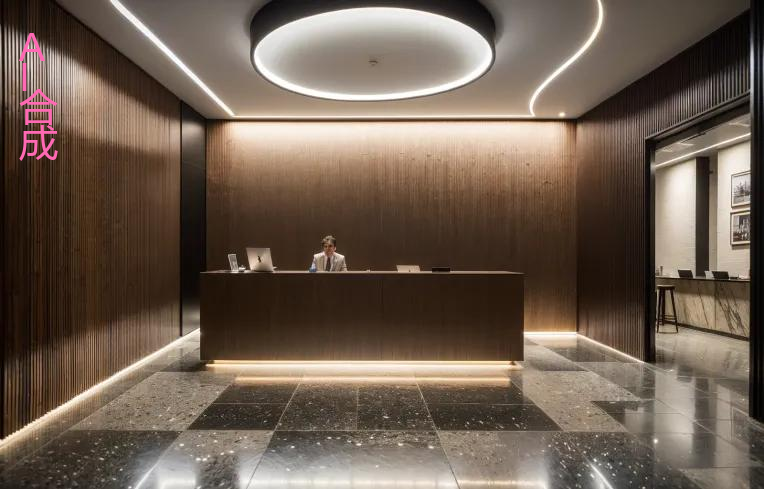
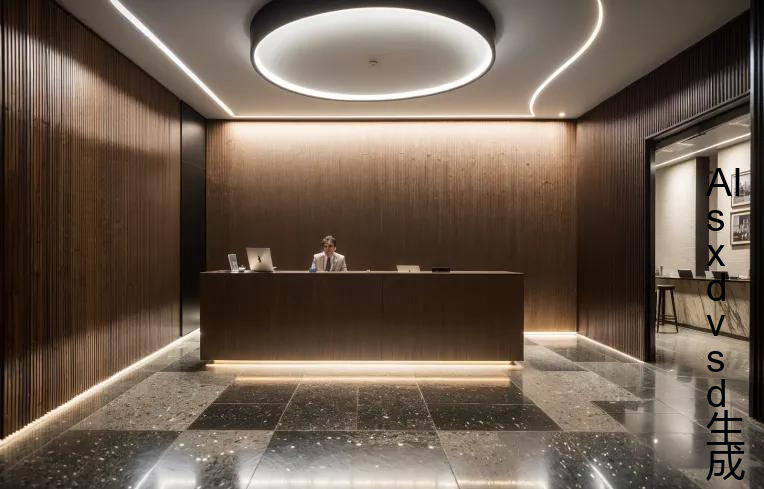
fix:LableContent to str and AI as a word

diff --git a/image_explicit/image_explicit.py b/image_explicit/image_explicit.py
@@ -55,7 +55,7 @@ def find_font(font_name_key):
 def get_default_explicit_label():
     """获取默认的水印参数"""
     return {
-        'ContentMode': 3,          # 默认内容为 "AI生成"
+        'LableContent': 3,          # 默认内容模式为 3 ("AI生成")
         'PositionMode': 1,
         'TextDirection': 0,
         'TextScale': 0.08,
@@ -104,56 +104,75 @@ def get_mixed_text_dimensions(draw, text, english_font, chinese_font):
     """计算混合字体文本的总尺寸，能处理横向与纵向。"""
     lines = text.split('\n')
     max_line_width = 0
-    
-    # 使用 textbbox 计算精确的总高度
-    try:
-        # 混合字体时，无法用单一字体完美计算bbox，但用较大字体(中文)可以得到很好的近似值
-        _, top, _, bottom = draw.textbbox((0, 0), text, font=chinese_font)
-        total_height = bottom - top
-    except ValueError:
-        # 罕见的备用方案
-        total_height = 0
-        for i, line in enumerate(lines):
-             _, line_top, _, line_bottom = draw.textbbox((0, 0), line, font=chinese_font)
-             total_height += (line_bottom - line_top)
+    total_height = 0
 
-    # 逐行计算最大宽度
-    for line in lines:
-        segments = _segment_text(line)
-        current_line_width = 0
+    if len(lines) > 1:  # 纵向文本模式
+        vertical_line_spacing_factor = 0.9
+        # 使用较大的字体大小作为基准行高
+        base_line_height = max(english_font.size, chinese_font.size) * vertical_line_spacing_factor
+
+        for line in lines:
+            segments = _segment_text(line)
+            current_line_width = 0
+            for segment, is_chinese_seg in segments:
+                font = chinese_font if is_chinese_seg else english_font
+                current_line_width += draw.textlength(segment, font=font)
+            
+            if current_line_width > max_line_width:
+                max_line_width = current_line_width
+            
+            total_height += base_line_height
+    else:  # 单行横向文本模式
+        segments = _segment_text(text)
+        line_max_ascent = 0
+        line_max_descent = 0
         for segment, is_chinese_seg in segments:
             font = chinese_font if is_chinese_seg else english_font
-            current_line_width += draw.textlength(segment, font=font)
-        if current_line_width > max_line_width:
-            max_line_width = current_line_width
-            
+            max_line_width += draw.textlength(segment, font=font)
+            ascent, descent = font.getmetrics()
+            if ascent > line_max_ascent:
+                line_max_ascent = ascent
+            if descent > line_max_descent:
+                line_max_descent = descent
+        total_height = line_max_ascent + line_max_descent
+
     return max_line_width, total_height
 
 def draw_mixed_text(draw, position, text, english_font, chinese_font, fill):
     """在指定位置绘制混合字体的文本，处理基线对齐和纵向文本。"""
     x, y = position
 
-    # 如果是纵向文本，则逐行绘制
-    if '\n' in text:
-        lines = text.split('\n')
-        current_y = y
-        for line in lines:
-            # 递归调用自身来绘制单行文本
-            draw_mixed_text(draw, (x, current_y), line, english_font, chinese_font, fill)
-            # 计算该行的高度以便移动到下一行
-            _, line_height = get_mixed_text_dimensions(draw, line, english_font, chinese_font)
-            current_y += line_height
-        return
-
-    # --- 以下为原有的横向文本绘制逻辑 ---
-    current_x = x
-    segments = _segment_text(text)
-
-    # 计算统一的基线
+    # 统一计算绘制时所需的基线信息
     eng_ascent, _ = english_font.getmetrics()
     cn_ascent, _ = chinese_font.getmetrics()
     max_ascent = max(eng_ascent, cn_ascent)
 
+    if '\n' in text: # 纵向文本模式
+        lines = text.split('\n')
+        current_y = y
+        
+        vertical_line_spacing_factor = 0.9
+        line_increment = max(english_font.size, chinese_font.size) * vertical_line_spacing_factor
+
+        for line in lines:
+            # --- 开始绘制单行（此处为单个纵向字符） ---
+            current_x_inner = x
+            segments = _segment_text(line)
+            for segment, is_segment_chinese in segments:
+                font = chinese_font if is_segment_chinese else english_font
+                segment_ascent, _ = font.getmetrics()
+                # 基于统一的基线调整每个片段的垂直位置
+                draw_y = current_y + (max_ascent - segment_ascent)
+                draw.text((current_x_inner, draw_y), segment, font=font, fill=fill)
+                current_x_inner += draw.textlength(segment, font=font)
+            # --- 单行绘制结束 ---
+            
+            current_y += line_increment # 使用计算好的固定行高进行递增
+        return
+
+    # --- 单行横向文本模式 ---
+    current_x = x
+    segments = _segment_text(text)
     for segment, is_segment_chinese in segments:
         font = chinese_font if is_segment_chinese else english_font
         # 基于统一的基线调整每个片段的垂直位置
@@ -183,7 +202,7 @@ def EmbedImageExplicitLabel(OriginalImagePath: str, ResultFilePath: str, Explici
         label_config = defaults.copy()
         label_config.update(ExplicitLabel)
 
-        # 新逻辑：根据 ContentMode 或 LableContent 确定水印文本
+        # 新逻辑：LableContent 支持整数模式和直接的字符串输入
         content_options = {
             1: "人工智能生成",
             2: "人工智能合成",
@@ -191,12 +210,19 @@ def EmbedImageExplicitLabel(OriginalImagePath: str, ResultFilePath: str, Explici
             4: "AI合成",
         }
         
-        content_mode = label_config.get('ContentMode')
-        if content_mode in content_options:
-            content = content_options[content_mode]
+        content_input = label_config.get('LableContent')
+        
+        content = ''
+        if isinstance(content_input, int) and content_input in content_options:
+            # 如果是有效的整数模式，获取对应的文本
+            content = content_options[content_input]
+        elif isinstance(content_input, str):
+            # 如果是字符串，直接使用
+            content = content_input
         else:
-            # 向后兼容旧的 LableContent 参数，如果ContentMode不存在，则尝试使用LableContent
-            content = label_config.get('LableContent', 'AI生成')
+            # 对于其他无效输入或没有输入，回退到默认值
+            # 兼容旧的ContentMode
+            content = label_config.get('ContentMode', content_options[get_default_explicit_label()['LableContent']])
 
         position_mode = label_config['PositionMode']
         direction = label_config['TextDirection']
@@ -242,7 +268,17 @@ def EmbedImageExplicitLabel(OriginalImagePath: str, ResultFilePath: str, Explici
         img_width, img_height = img.size
         font_size = int(min(img_width, img_height) * scale)
         if direction == 1:  # 纵向
-            content = '\n'.join(list(content))
+            # 特殊处理纵向文本，让 "AI" 保持在同一行，而不是垂直分开
+            new_content_parts = []
+            i = 0
+            while i < len(content):
+                if content[i:i+2] == 'AI':
+                    new_content_parts.append('AI')
+                    i += 2
+                else:
+                    new_content_parts.append(content[i])
+                    i += 1
+            content = '\n'.join(new_content_parts)
 
         temp_draw = ImageDraw.Draw(Image.new("RGBA", (0,0)))
 
@@ -339,17 +375,20 @@ def main():
     # --- 水印详细参数 ---
     label_help = """
 Watermark settings in JSON format. Example:
-'{"ContentMode": 1, "PositionMode": 3, "Opacity": 0.8}'
+'{"LableContent": 1, "PositionMode": 3, "Opacity": 0.8}'
+'{"LableContent": "自定义文本", "PositionMode": 3, "Opacity": 0.8}'
 
 Settable fields (with defaults):
-  'ContentMode': 3                 // int, Watermark Content. 1:"人工智能生成", 2:"人工智能合成", 3:"AI生成", 4:"AI合成".
-  'LableContent': 'AI生成'         // str, DEPRECATED. Use ContentMode instead.
+  'LableContent': 3                // int|str, (Recommended) Watermark content.
+                                     // Use int mode for presets to avoid encoding issues: 1:"...", 2:"...", 3:"...", 4:"...".
+                                     // Or provide a direct string.
   'PositionMode': 1                // int, Position: 1(BR), 2(BL), 3(TR), 4(TL), -1(BC), -2(TC), -3(LC), -4(RC)
   'TextDirection': 0               // int, Direction: 0(Horizontal), 1(Vertical)
   'TextScale': 0.08                // float, Text height ratio to image's shorter side (>= 0.05)
   'TextColor': [0, 0, 0]           // list, RGB color (e.g., [255, 0, 0] for red)
   'FontName': 1                    // int, Font: 1(MS YaHei), 2(Simsun), 3(Heiti), 4(Arial), 5(Times New Roman)
   'Opacity': 0.5                   // float, Opacity from 0.0 (transparent) to 1.0 (opaque)
+  'ContentMode': 'AI生成'          // str, (DEPRECATED) Use LableContent instead.
 """
     parser.add_argument('--ExplicitLabel', type=str, default='{}', help=label_help)
 

diff --git a/image_explicit/README.md b/image_explicit/README.md
@@ -69,26 +69,24 @@ python watermark.py <输入图片> <输出图片> --ExplicitLabel '<JSON配置>'
 
 | 参数名 | 类型 | 描述 | 示例 |
 | :--- | :--- | :--- | :--- |
-| `ContentMode` | int | **(推荐)** 水印内容模式。 **1**: "人工智能生成", **2**: "人工智能合成", **3**: "AI生成" (默认), **4**: "AI合成". | `'{"ContentMode": 1}'` |
+| `LableContent` | str | **(推荐)** 水印文本内容。可以是预设的四个值之一（"人工智能生成", "人工智能合成", "AI生成", "AI合成"），也可以是任何自定义字符串。 | `'{"LableContent": "AI合成"}'` |
 | `PositionMode` | int | 水印位置。 **1**:右下, **2**:左下, **3**:右上, **4**:左上, **-1**:下中, **-2**:上中, **-3**:左中, **-4**:右中. | `'{"PositionMode": 4}'` |
 | `TextDirection` | int | 文字方向。**0**: 横向 (默认), **1**: 纵向. | `'{"TextDirection": 1}'` |
 | `TextColor` | list | 文字的RGB颜色。 | `'{"TextColor": [255, 0, 0]}'` (红色) |
 | `TextScale` | float | 文字大小，为图片短边高度的比例 (>= 0.05)。 | `'{"TextScale": 0.1}'` |
 | `Opacity` | float | 透明度，范围从 0.0 (完全透明) 到 1.0 (完全不透明)。 | `'{"Opacity": 0.75}'` |
-| `FontName` | int | 字体名称。 **1**:微软雅黑 (默认), **2**:宋体, **3**:黑体, **4**:Arial, **5**:Times New Roman. <br>注：当选择字体4或5时，脚本会检查内容。若内容包含"AI"，则进行混合渲染（中文用字体1，英文用所选字体）；若不含"AI"，则自动回退使用字体1。 | `'{"FontName": 4, "ContentMode": 3}'` |
-| `LableContent` | str | **(已弃用)** 直接提供文本内容。会被`ContentMode`覆盖。 | `'{"LableContent": "自定义内容"}'` |
-注：ContentMode与LableContent关系：
-当您运行脚本时，它会首先检查您是否在 --ExplicitLabel 中提供了 ContentMode。
-如果提供了 ContentMode，脚本就会根据您给的数字（1, 2, 3, 或 4）选择对应的预设文字，并完全忽略 LableContent。
-如果您没有提供 ContentMode，脚本才会接着去寻找 LableContent，并使用您在里面提供的自定义文本。
+| `FontName` | int | 字体名称。 **1**:微软雅黑 (默认), **2**:宋体, **3**:黑体, **4**:Arial, **5**:Times New Roman. <br>注：当选择字体4或5时，脚本会检查内容。若内容包含"AI"，则进行混合渲染（中文用字体1，英文用所选字体）；若不含"AI"，则自动回退使用字体1。 | `'{"FontName": 4, "LableContent": "AI生成"}'` |
+| `ContentMode` | str | **(已弃用)** 直接提供文本内容。已被`LableContent`取代。 | `'{"ContentMode": "自定义内容"}'` |
+注：LableContent与ContentMode关系：
+当您运行脚本时，它会优先使用 --ExplicitLabel 中的 LableContent 作为水印内容。ContentMode 参数已弃用，建议不再使用。
 
 **组合示例:**
 
-同时设置内容为 "人工智能合成" (模式2) 和颜色为黑色:
+同时设置内容为 "人工智能合成" 和颜色为黑色:
 ```bash
-python image_explicit.py test.jpg output.png --ExplicitLabel '{"ContentMode": 2, "TextColor": [0, 0, 0]}'
+python image_explicit.py test.jpg output.png --ExplicitLabel '{"LableContent": "人工智能合成", "TextColor": [0, 0, 0]}'
 ```
-python image_explicit.py test.jpg output.png --ExplicitLabel '{"ContentMode": 4, "PositionMode": 4, "TextColor": [255, 105, 180], "Opacity": 1.0, "FontName": 4, "TextDirection": 1}'
+python image_explicit.py test.jpg output.png --ExplicitLabel '{"LableContent": "AI合成", "PositionMode": 4, "TextColor": [255, 105, 180], "Opacity": 1.0, "FontName": 4, "TextDirection": 1}'
 ---
 
 ## 3. 返回结果说明
@@ -105,4 +103,4 @@ python image_explicit.py test.jpg output.png --ExplicitLabel '{"ContentMode": 4,
 *   **1**: 嵌入成功。
 *   **0**: 未嵌入 (此版本中未使用)。
 *   **-1**: 嵌入失败 (通常是参数错误)。
-*   **-2**: 执行错误 (通常是文件找不到或程序异常)。 
+*   **-2**: 执行错误 (通常是文件找不到或程序异常)。
